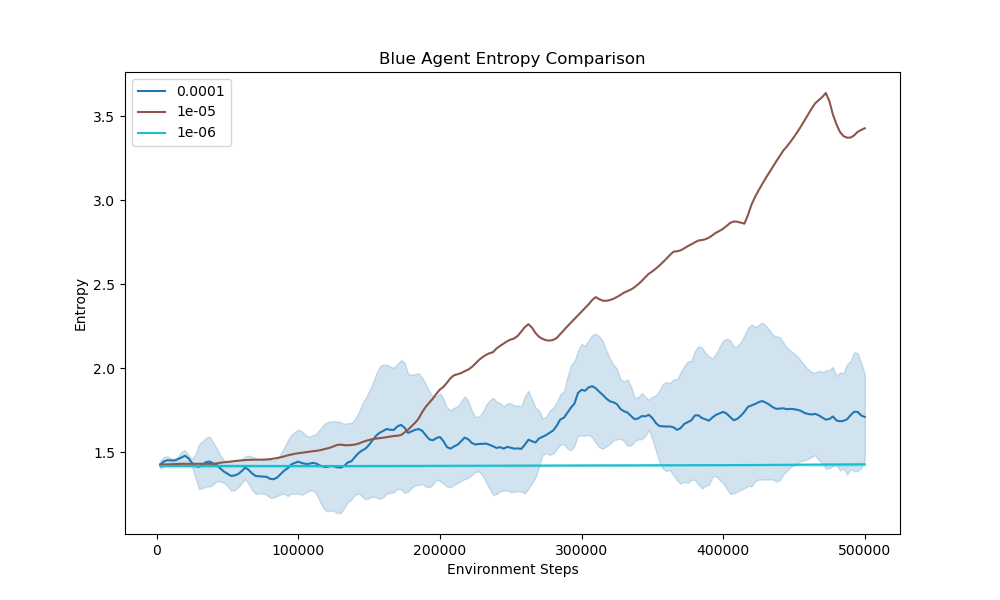
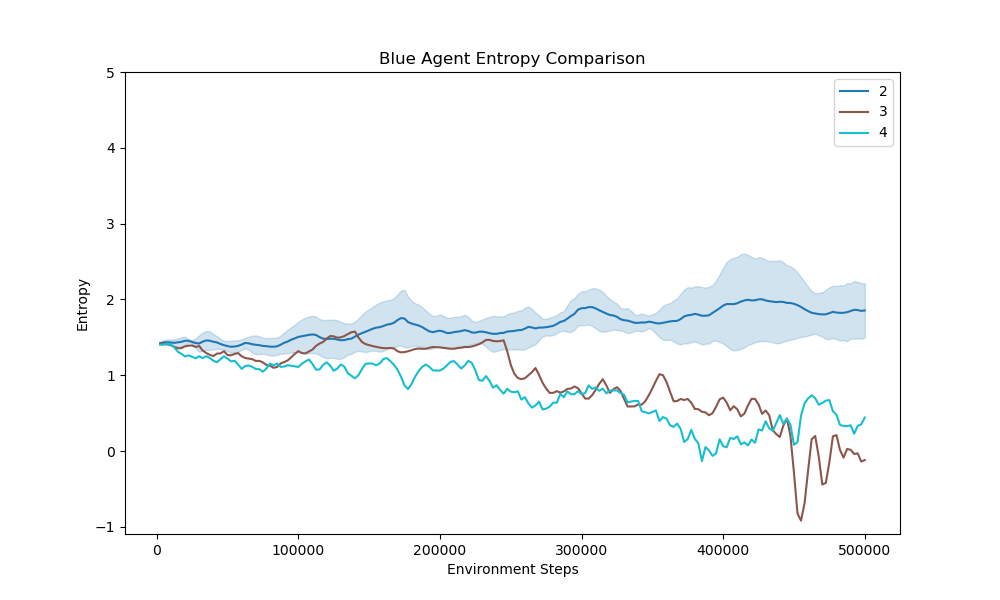
push

diff --git a/Multi_Plots.py b/Multi_Plots.py
@@ -12,9 +12,9 @@ fig_entropy_blue, ax_entropy_blue = plt.subplots(figsize=(10, 6))
 fig_entropy_red, ax_entropy_red = plt.subplots(figsize=(10, 6))
 
 search_config = {               
-    "offpolicy_iterations": 2,              
+    "offpolicy_iterations": None,              
     "entropy_loss_param": 5.0e-3   ,      #5.0e-3     
-    "lr": None,                #1e-5    
+    "lr": 1e-4 ,                #1e-5    
     "value_param": 1              
 }
 pre_ls = []
@@ -113,6 +113,7 @@ ax_entropy_blue.set_title('Blue Agent Entropy Comparison')
 ax_entropy_blue.set_xlabel('Environment Steps')
 ax_entropy_blue.set_ylabel('Entropy')
 ax_entropy_blue.legend()
+ax_entropy_blue.set_ylim(top=5)
 fig_entropy_blue.savefig(save_path / 'entropy_blue_comparison.png')
 plt.close(fig_entropy_blue)
 
@@ -120,6 +121,7 @@ plt.close(fig_entropy_blue)
 ax_entropy_red.set_title('Red Agent Entropy Comparison')
 ax_entropy_red.set_xlabel('Environment Steps')
 ax_entropy_red.set_ylabel('Entropy')
+ax_entropy_red.set_ylim(top=5)
 ax_entropy_red.legend()
 fig_entropy_red.savefig(save_path / 'entropy_red_comparison.png')
 plt.close(fig_entropy_red)

diff --git a/UMLplotter.py b/UMLplotter.py
@@ -1,0 +1,25 @@
+import os
+from pathlib import Path
+import matplotlib.pyplot as plt
+import torch as th
+import torch.nn as nn
+import pandas as pd
+import matplotlib.cm as cm
+
+
+In_Path = Path(__file__, '..','UML_input')
+save_path = Path(__file__, '..','UML_output')
+file = os.listdir(In_Path)[0]
+
+df = pd.read_csv(Path(In_Path, file))
+print(df)
+steps = df['Step'].astype(float) 
+mean = df['Value'].astype(float)
+plt.plot(steps, mean, label='Mean Reward', color='blue')
+plt.xlabel('Environment Steps')
+plt.ylabel('Reward')
+plt.ylim(bottom=0)
+plt.title('Shared Reward')
+plt.legend()
+plt.savefig(Path(save_path, 'reward_plot.png'))
+plt.clf()
